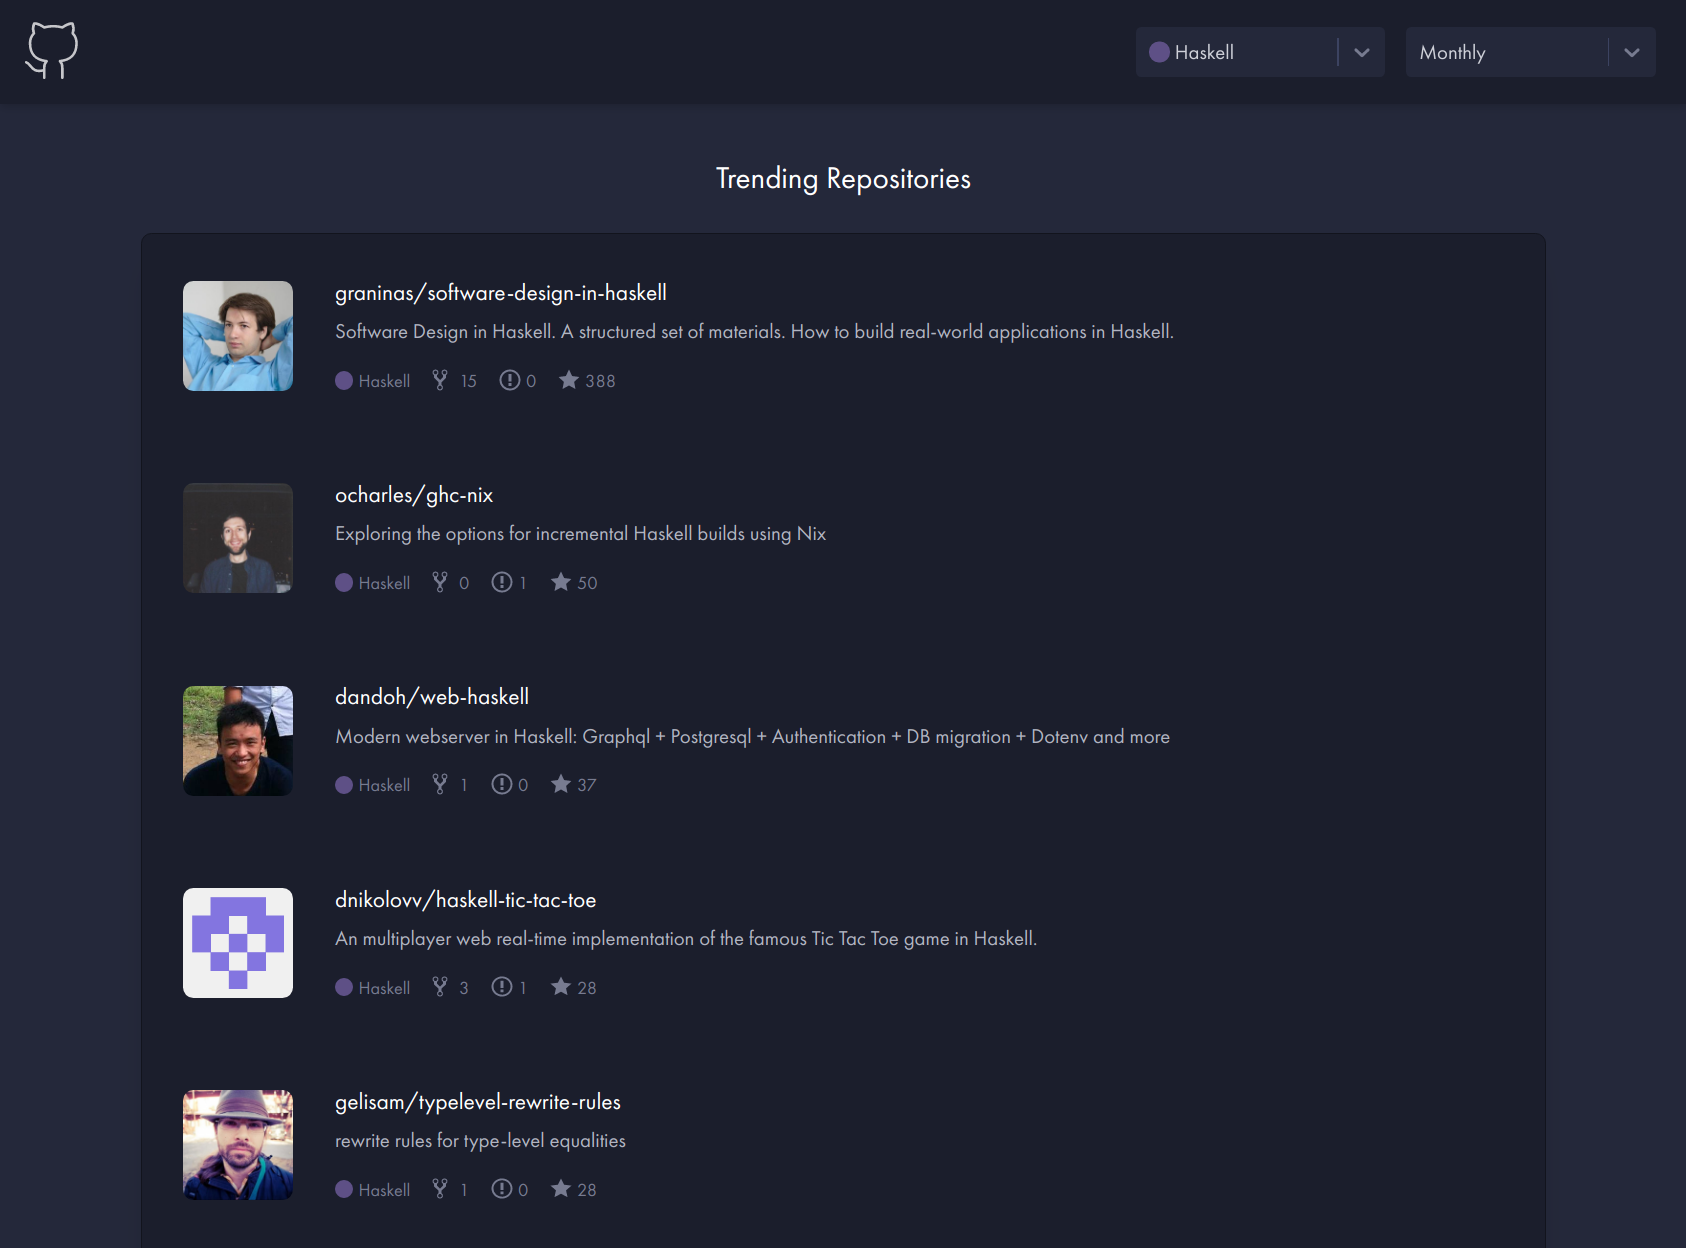
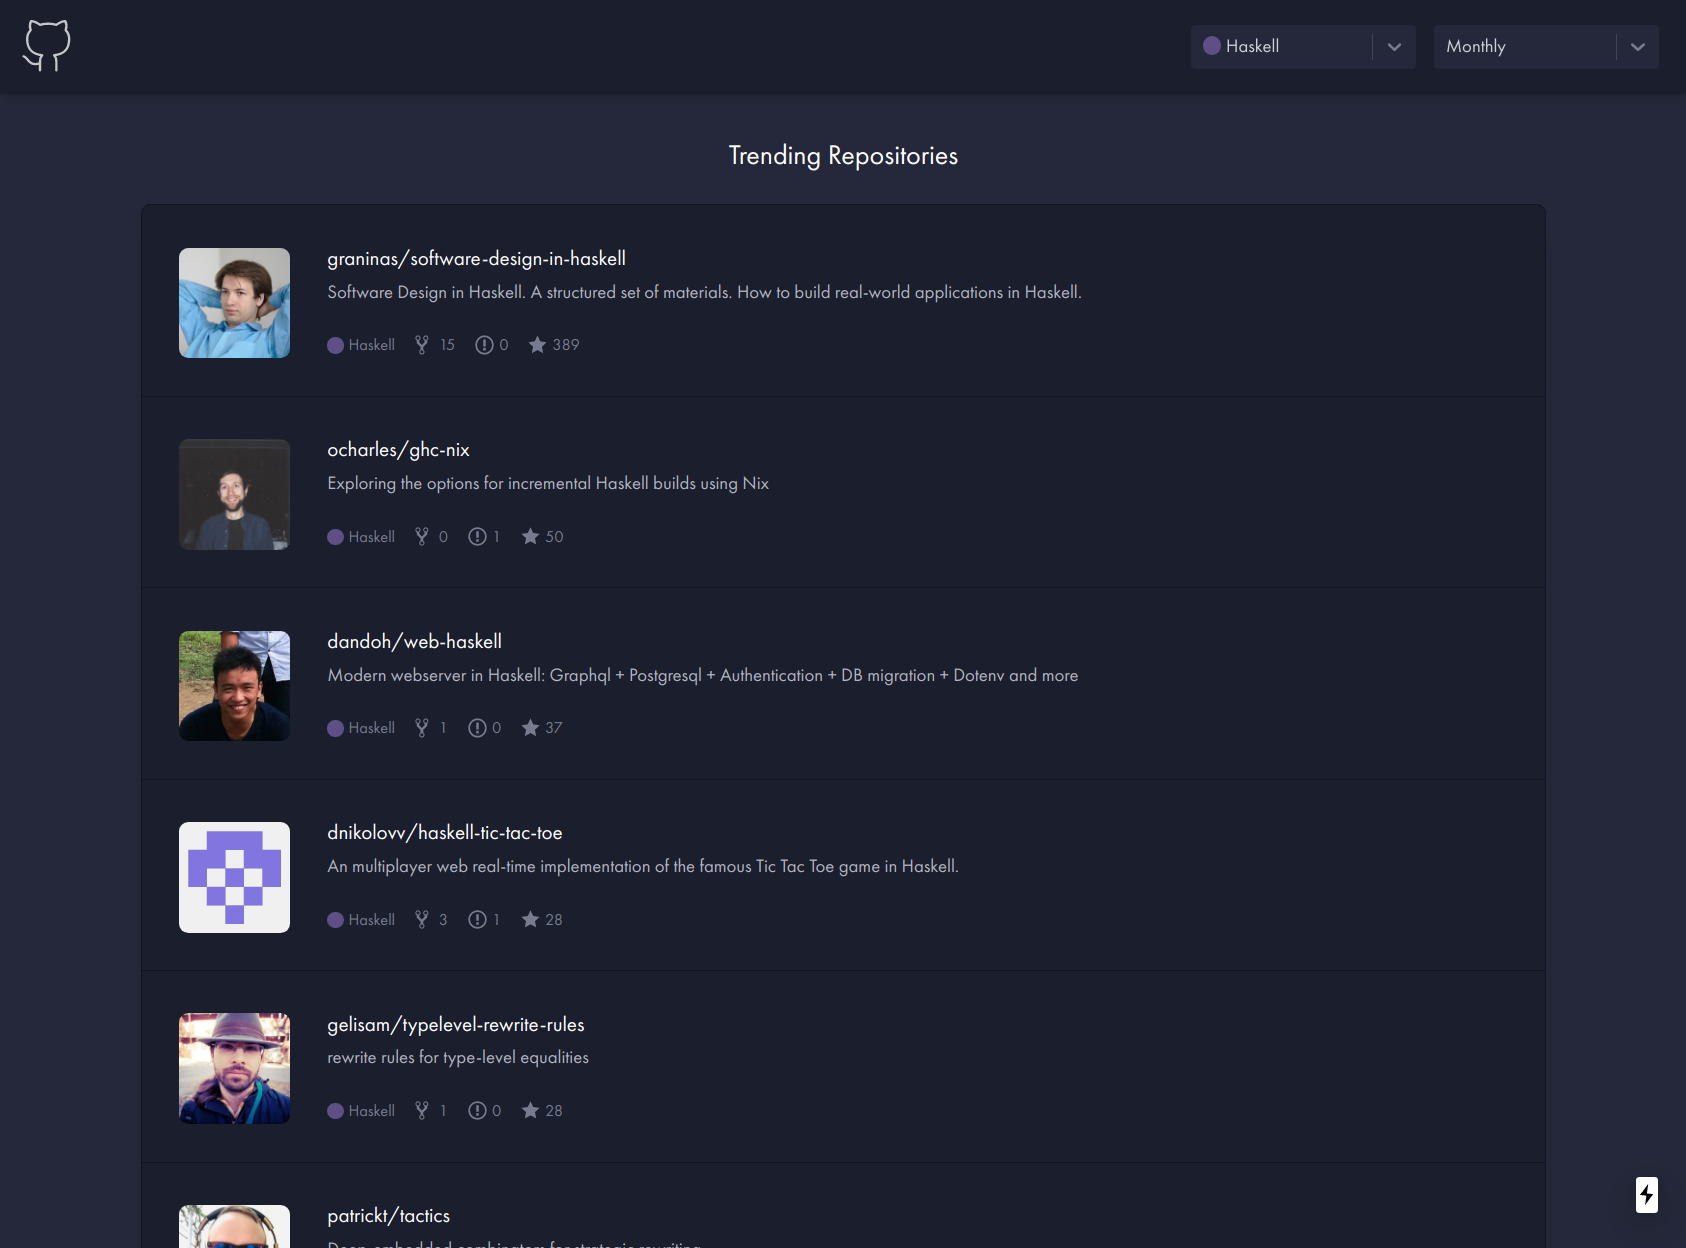
Fix bottom border

diff --git a/src/components/repos/repo.item.tsx b/src/components/repos/repo.item.tsx
@@ -29,7 +29,9 @@ const RepoItem: FC<RepoProps> = ({
       'pb-4',
       'md:p-8',
       'hover:bg-gray-900',
-      'transition-bg'
+      'transition-bg',
+      'border-gray-900',
+      { 'border-b': !isLast }
     )}
   >
     <Avatar {...author} />
@@ -66,7 +68,6 @@ const RepoItem: FC<RepoProps> = ({
         )}
       </div>
     </a>
-    {!isLast && <hr className={cn('border-gray-900')} />}
   </li>
 )
 
